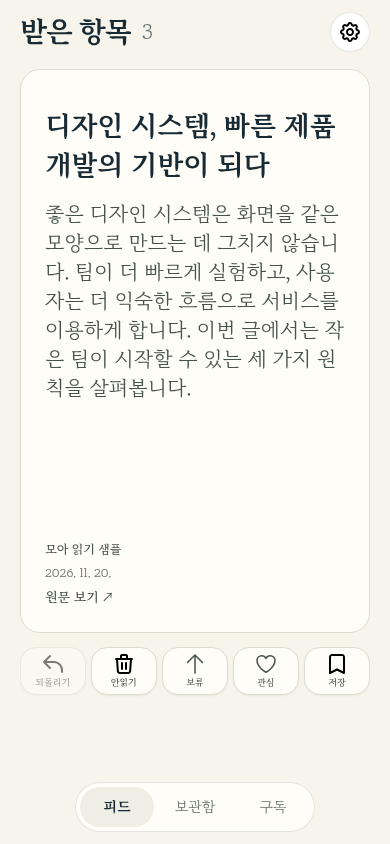
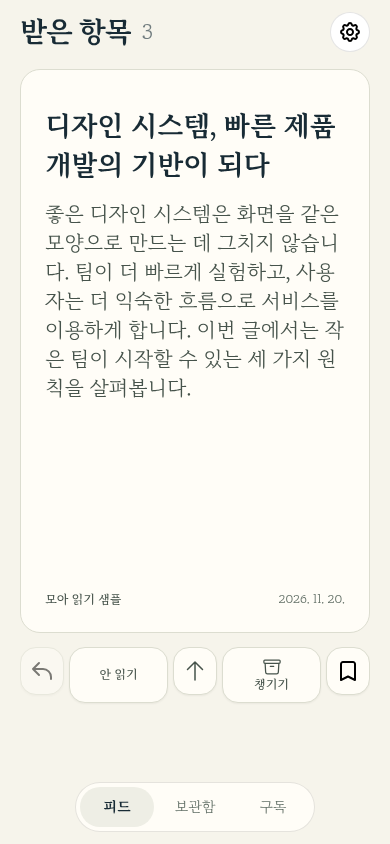
style: refine feed actions and story footer

diff --git a/apps/web/src/components/story-card.tsx b/apps/web/src/components/story-card.tsx
@@ -2,8 +2,8 @@
 /* eslint-disable tailwindcss/no-custom-classname, @next/next/no-img-element */
 import { useEffect, useRef, useState, type PointerEvent } from "react";
 import Link from "next/link";
-import { ArrowUpIcon, HeartIcon } from "@heroicons/react/24/outline";
-import { HeartIcon as HeartSolid } from "@heroicons/react/24/solid";
+import { ArchiveBoxIcon, ArrowUpIcon } from "@heroicons/react/24/outline";
+import { ArchiveBoxIcon as ArchiveBoxSolid } from "@heroicons/react/24/solid";
 import { Button } from "@/components/ui/button";
 import { gestureAction } from "@/lib/gesture";
 import { useReaderStore } from "@/stores/reader-provider";
@@ -163,8 +163,16 @@ export function StoryCard() {
             }}
           >
             <div className="story-card-content">
-              <h1 data-no-drag tabIndex={0} className="story-title">
-                {story.title}
+              <h1 data-no-drag className="story-title">
+                <a
+                  data-no-drag
+                  href={story.url}
+                  target="_blank"
+                  rel="noopener noreferrer"
+                  onClick={(e) => e.stopPropagation()}
+                >
+                  {story.title}
+                </a>
               </h1>
               <p
                 data-no-drag
@@ -181,15 +189,6 @@ export function StoryCard() {
                     ? new Date(story.publishedAt).toLocaleDateString("ko-KR")
                     : "날짜 정보 없음"}
                 </time>
-                <a
-                  data-no-drag
-                  href={story.url}
-                  target="_blank"
-                  rel="noopener noreferrer"
-                  onClick={(e) => e.stopPropagation()}
-                >
-                  원문 보기 ↗
-                </a>
               </div>
             </div>
           </article>
@@ -217,7 +216,7 @@ export function StoryCard() {
             label: "직전 선택 되돌리기",
             icon: <img src="/figma/undo.svg" width="24" height="24" alt="" />,
             disabled: !history.length,
-            shortLabel: "되돌리기",
+            visibleLabel: undefined,
             run: () => {
               undo();
               setMessage("직전 선택을 되돌렸어요.");
@@ -225,31 +224,27 @@ export function StoryCard() {
           },
           {
             label: "안 읽기",
-            icon: (
-              <img src="/figma/discard.svg" width="24" height="24" alt="" />
-            ),
+            icon: null,
             disabled: !story,
-            shortLabel: "안읽기",
+            visibleLabel: "안 읽기",
             run: () => act("skip"),
           },
           {
             label: "큐 맨 뒤로 보류",
             icon: <ArrowUpIcon />,
             disabled: !story,
-            shortLabel: "보류",
+            visibleLabel: undefined,
             run: () => act("defer"),
           },
           {
-            label: liked ? "관심 표시 취소" : "관심 표시",
-            icon: liked ? <HeartSolid /> : <HeartIcon />,
+            label: liked ? "챙기기 취소" : "챙기기",
+            icon: liked ? <ArchiveBoxSolid /> : <ArchiveBoxIcon />,
             disabled: !story,
-            shortLabel: "관심",
+            visibleLabel: "챙기기",
             pressed: liked,
             run: () => {
               interest();
-              setMessage(
-                liked ? "관심 표시를 취소했어요." : "관심을 표시했어요.",
-              );
+              setMessage(liked ? "챙기기를 취소했어요." : "챙겼어요.");
             },
           },
           {
@@ -258,7 +253,7 @@ export function StoryCard() {
               <img src="/figma/bookmark.svg" width="24" height="24" alt="" />
             ),
             disabled: !story,
-            shortLabel: "저장",
+            visibleLabel: undefined,
             run: () => act("save"),
           },
         ].map((a) => (
@@ -270,10 +265,10 @@ export function StoryCard() {
             disabled={a.disabled}
             onClick={a.run}
             variant="outline"
-            className="story-action-button"
+            className={`story-action-button ${a.visibleLabel ? "story-action-button-with-label" : ""}`}
           >
             {a.icon}
-            <span>{a.shortLabel}</span>
+            {a.visibleLabel && <span>{a.visibleLabel}</span>}
           </Button>
         ))}
       </div>

diff --git a/apps/web/src/app/reader.css b/apps/web/src/app/reader.css
@@ -421,6 +421,11 @@ input:focus-visible {
   user-select: none;
 }
 
+.story-title a {
+  color: inherit;
+  text-decoration: none;
+}
+
 .story-description {
   min-height: 0;
   flex: 1;
@@ -437,8 +442,9 @@ input:focus-visible {
 .story-meta {
   display: flex;
   flex: none;
-  flex-direction: column;
-  gap: 6px;
+  align-items: baseline;
+  justify-content: space-between;
+  gap: 12px;
   margin-top: auto;
   padding-top: 16px;
   color: var(--muted);
@@ -446,33 +452,39 @@ input:focus-visible {
   touch-action: none;
 }
 
-.story-meta a {
-  color: var(--secondary);
-  font-size: 13px;
-  font-weight: 600;
+.story-source {
+  flex: 1;
+  min-width: 0;
+  overflow: hidden;
+  text-overflow: ellipsis;
+  white-space: nowrap;
+}
+
+.story-meta time {
+  flex: none;
+  white-space: nowrap;
 }
 
 .story-actions {
-  display: flex;
-  justify-content: center;
+  display: grid;
+  grid-template-columns: 44px minmax(0, 1fr) 44px minmax(0, 1fr) 44px;
   gap: 5px;
   padding: 14px 0 0;
 }
 
 .story-actions button {
   display: flex;
-  width: 20%;
+  width: 100%;
   min-width: 44px;
   min-height: 48px;
-  flex: 1 1 0;
-  flex-direction: column;
+  flex-direction: row;
   align-items: center;
   justify-content: center;
   gap: 2px;
   border: 1px solid var(--border);
   border-radius: 16px;
   background: #fffdf7;
-  padding: 3px 1px;
+  padding: 3px;
   color: var(--secondary);
 }
 
@@ -489,10 +501,21 @@ input:focus-visible {
 }
 
 .story-actions button span {
-  font-size: 9px;
+  font-size: 12px;
   font-weight: 600;
   line-height: 1.2;
   white-space: nowrap;
+}
+
+.story-actions button.story-action-button-with-label {
+  min-height: 56px;
+  flex-direction: column;
+  gap: 0;
+}
+
+.story-actions button.story-action-button-with-label svg {
+  width: 20px;
+  height: 20px;
 }
 
 .story-actions button[aria-pressed="true"] {

diff --git a/apps/web/docs/review/issue-2/README.md b/apps/web/docs/review/issue-2/README.md
@@ -8,6 +8,8 @@ Typography uses self-hosted Maru Buri Regular (400), SemiBold (600), and Bold (7
 
 ## Current application
 
+Feed actions use icon-only Undo, Defer, and Save controls, with wider text buttons for Skip and Collect (챙기기). Collect retains the independent selection toggle and uses an archive icon. The story footer shows only the source on the left and publication date on the right; tapping the card still opens the original article.
+
 - [Feed](screenshots/implemented-reader-mobile.png)
 - [Saved stories](screenshots/implemented-saved-mobile.png)
 - [Subscriptions with controlled feed failure](screenshots/implemented-settings-failure-mobile.png)
